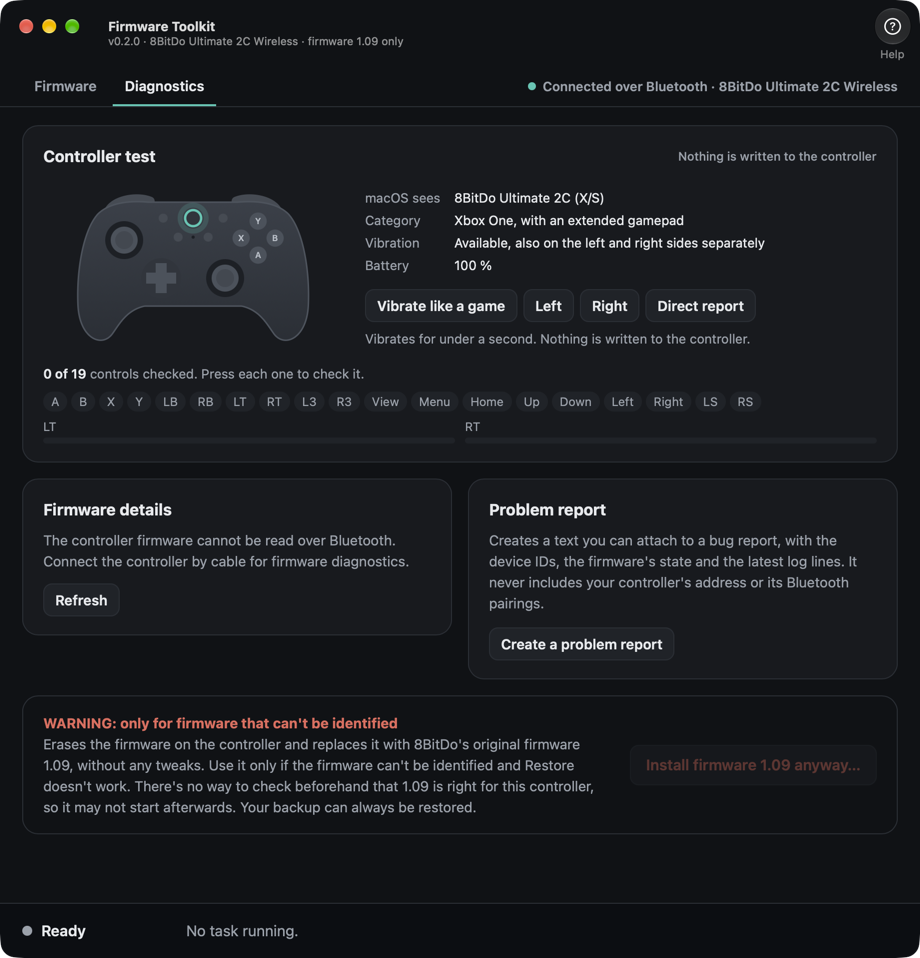
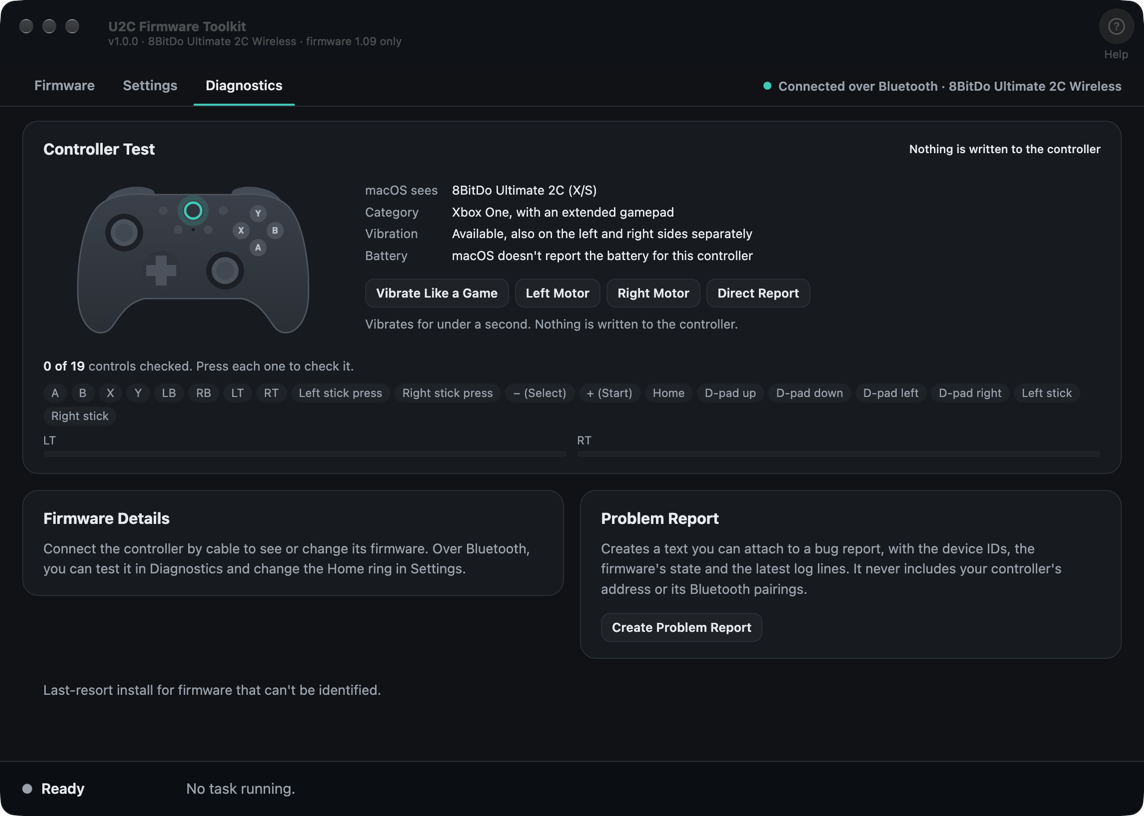
README screenshots of 1.0, and the dongle backup from the app in the validation

diff --git a/docs/validation.md b/docs/validation.md
@@ -151,7 +151,7 @@ battery log in an unused flash area), the command line of this repository and sm
    tool and read back. With the controller on 2.4 GHz it presents as `045e:028e` version `0x0103`, and the controller test saw
    every control and rumble worked. With both sticks in circles for 63 s, 62,995 reports arrived: 1,000 per second, median gap
    1.0 ms, 99 % within 1.2 ms, longest 11.3 ms (over Bluetooth: 104 per second, median 14.8 ms). The app reads the paired
-   dongle's firmware through it in about 4.5 s and shows it as the dongle with the controller connected.
+   dongle's firmware through it in about 4.5 s and shows it as the dongle with the controller connected. The app's own Back Up of the dongle ran on it the same day (about 45 s), and the app then read the dongle as 1.03 with the tweak, with its backup offered for Restore.
 
 Still to do: Restore when a 4 KB block outside the firmware area differs from the backup; quitting or closing the window during
 a real write; the 12.5 ms request on Linux or Windows; and, from 0.4, a sleeping Mac with the cable in and the closed Bluetooth
